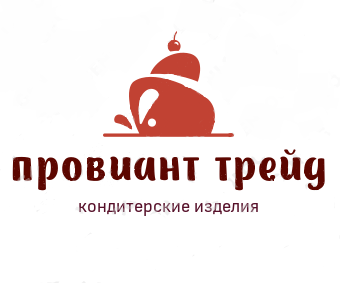
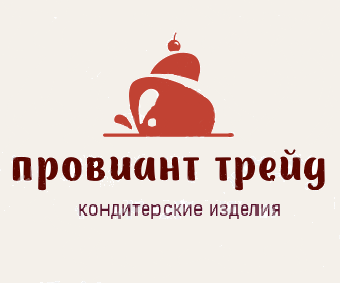
Лого, разделы, фон

Changed region(s): [[0.2353, 0.7067, 0.8235, 0.7915], [0.4412, 0.3392, 0.4706, 0.3958]]

diff --git a/src/css/style.css b/src/css/style.css
@@ -2,50 +2,87 @@
 * {
 	box-sizing: border-box;
 }
+body {
+	background-color: rgb(244, 240, 234 );
+}
+
 
 .one-block {
 	background-color:;
 	width: 100%;
 	height: 142px;
-	border: 2px solid black;
+	/*border: 2px solid black;*/
 }
 .block-1 {
-	border: 2px solid black;
-	width: 700px;
-	margin-left: 100px;
+	/*border: 2px solid black;*/
+	width: 900px;
+	margin-left: 150px;
+
 }
 .logo, .block-1 {
-	border: 2px solid black;
+	/*border: 2px solid black;*/
 	display: inline-block;
 	vertical-align: middle;
+	position: ;
 }
-
-
-
-.o-nas {
+.main {
 	margin-left: 50px;
-	border: 2px solid #000;
+	/*border: 2px solid #000;*/
 	display: inline-block;
 	height: px;
-	width: 100px;
+	width: px;
 	font-size: 20px;
 	padding-top: px;
-
-	
+	margin-right: 30px;	
 }
-.assortiment {
-	border: 2px solid #000;
+.kompany {
+	
+	/*border: 2px solid #000;*/
 	display: inline-block;
 	height: px;
-	width: 150px;
+	width: px;
+	font-size: 20px;
+	padding-top: px;
+	margin-right: 30px;	
+}
+.catalog {
+	/*border: 2px solid #000;*/
+	display: inline-block;
+	height: px;
+	width: px;
 	font-size: 20px;
 	padding: px;
+	margin-right: 30px;
+
 }
 .inform {
-	border: 2px solid #000;
+	/*border: 2px solid #000;*/
 	display: inline-block;
 	height: px;
-	width: 150px;
+	width: px;
 	font-size: 20px;
-	
+	margin-right: 30px;
+}
+.carry {
+	/*border: 2px solid #000;*/
+	display: inline-block;
+	height: px;
+	width: px;
+	font-size: 20px;
+	margin-right: 30px;
+}
+.contact {
+	/*border: 2px solid #000;*/
+	display: inline-block;
+	height: px;
+	width: px;
+	font-size: 20px;
+	padding:  ;
+	margin-right: 30px;
+}
+.fon1 {
+	margin-right: -5;
+}
+.fon2 {
+	margin-left: -2;
 }

diff --git a/src/index.html b/src/index.html
@@ -15,15 +15,20 @@
     <div class= "one-block">
         <img class="logo" src="img/u_ajax.png" width="170" height="140" alt="logo">
         <div class="block-1">
-	        <a class="o-nas" href="o_nas.html">О нас</a>
-	        <a class="assortiment" href="assortiment.html"
-	        >Ассортимент</a>
-	        <a class="inform" href="inf.html">Информация</a>
+        	<a class="main" href="index.html">Главная</a>
+	        <a class="kompany" href="kompany.html">О компании</a>
+	        <a class="catalog" href="catalog.html"
+	        >Каталог</a>
+	        <a class="inform" href="inf.html">Новости</a>
+	        <a class="carry" href="carry.html">Доставка</a>
+	        <a class="contact" href="contacts.html">Контакты</a>
 	    </div>    
     </div>    
 	<div class="block-2">
-		<p class="one">В словесном лесу за крикастыми горами и восклицательными полями в вопросительной избе сидел знак весь в запятых, а перед этим был пикник на обочине</p>
-	</div>  
+		<img class="fon1" src="img/fon/stock_20_02_16_0583.jpg" width="634" height="420">
+		<img class="fon2" src="img/fon/stock_2.jpg" width="634" height="420">
+
+	</div> 
 
 </body> 
 </html>

diff --git a/src/carry.html b/src/carry.html
@@ -1,0 +1,12 @@
+<!DOCTYPE html>
+<html lang="en">
+<head>
+	<meta charset="UTF-8">
+	<meta name="viewport" content="width=device-width, initial-scale=1.0">
+	<title>Document</title>
+</head>
+<body>
+	<a href="index.html">На главную</a>
+	
+</body>
+</html>

diff --git a/src/contacts.html b/src/contacts.html
@@ -1,0 +1,12 @@
+<!DOCTYPE html>
+<html lang="en">
+<head>
+	<meta charset="UTF-8">
+	<meta name="viewport" content="width=device-width, initial-scale=1.0">
+	<title>Document</title>
+</head>
+<body>
+	<a href="index.html">На главную</a>
+	
+</body>
+</html>
